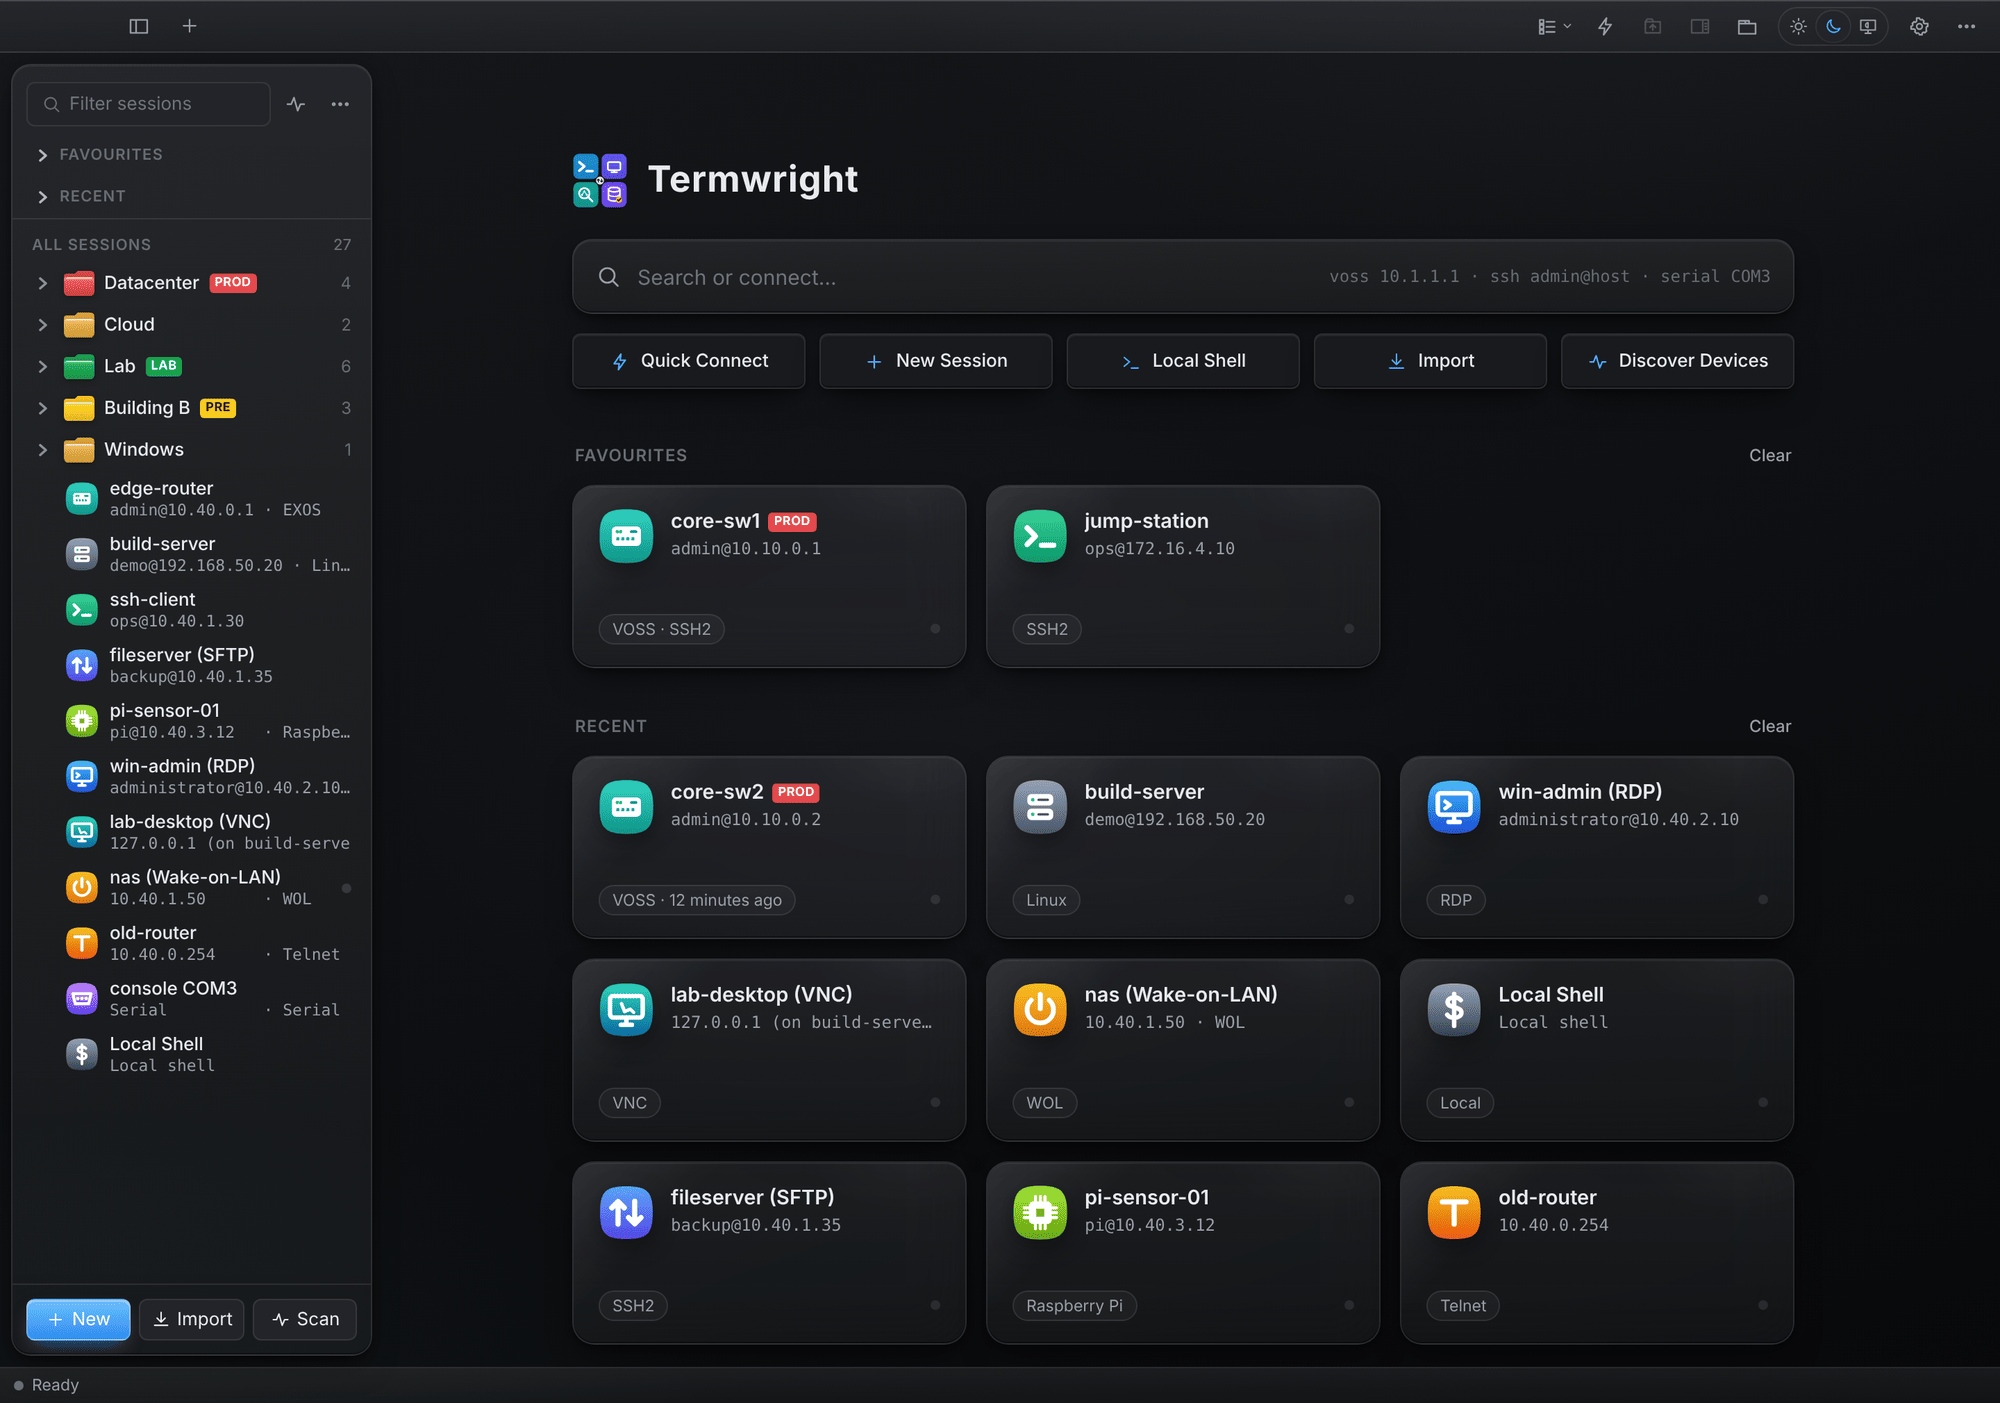
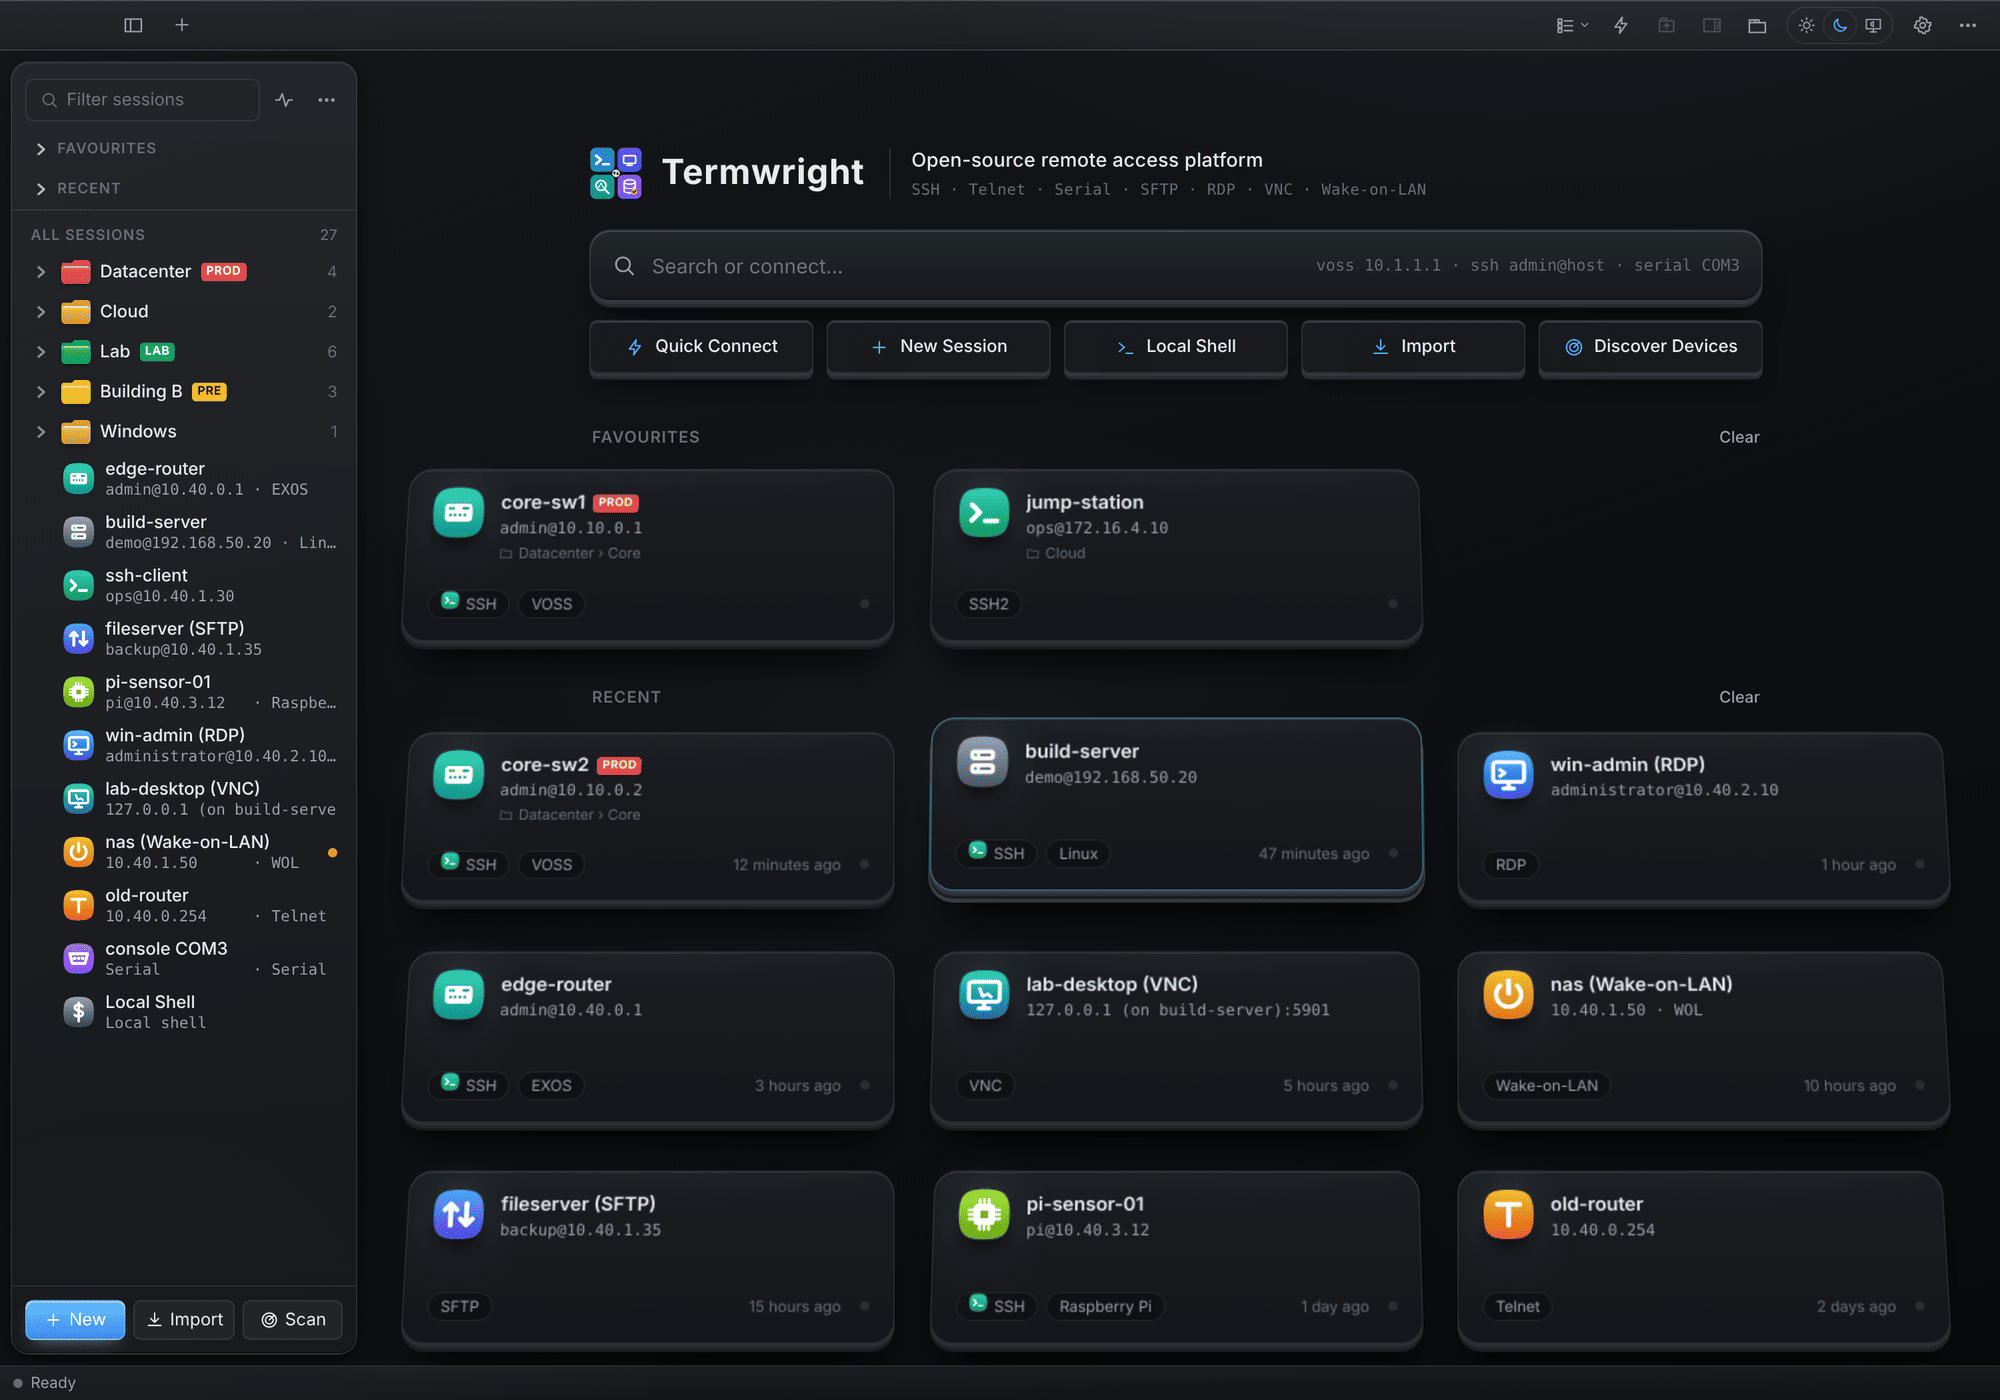
README: new start page screenshots (3D cards, dark and light), What's new in 0.28; changelog for 0.28.2

diff --git a/README.md b/README.md
@@ -23,7 +23,7 @@
   <a href="docs/ROADMAP.md">Roadmap</a>
 </p>
 
-![Termwright - start page and Session Manager in the Glacier style](docs/screenshots/glacier-start-dark.png)
+![Termwright - start page with 3D cards and the Session Manager in the Glacier style](docs/screenshots/glacier-start-dark.png)
 
 <p align="center"><i>The start page and Session Manager (Glacier, dark): folders with their environments, and every kind of session - SSH, SFTP, Linux, EXOS, IoT, RDP, VNC, Wake-on-LAN, Telnet, serial, local shell.</i></p>
 
@@ -52,7 +52,7 @@
 - Compare two tabs, a tab and a file, or two SFTP files
 - Wake-on-LAN
 - Import from SecureCRT, PuTTY, MobaXterm, mRemoteNG and more
-- Windows, macOS and Linux, and an Android companion app for Wake-on-LAN ([preview](mobile/README.md))
+- Windows, macOS and Linux, and an Android companion app with an SSH and Telnet terminal, a device widget and Wake-on-LAN ([preview](mobile/README.md))
 - Glacier and Standard styles, dark and light themes
 
 And much more - see the [feature list](docs/FEATURES.md).
@@ -83,12 +83,13 @@ Existing sessions can be imported from SecureCRT, PuTTY, KiTTY, SuperPuTTY, Moba
   - configuration backups with change detection, change checklists, and Run and Collect.
 - **Networks in between**: jump hosts (chainable), SOCKS5 and HTTP proxies, port forwarding, and SFTP to a host behind a bastion through the bastion's own key. Web interfaces of devices behind a jump host open in a browser window whose traffic goes through the SSH connection.
 
-## What's new in 0.28.0
+## What's new in 0.28
 
 - **Termwright for Android: a terminal.** SSH and Telnet sessions open on the phone with the desktop's terminal and a key bar for Esc, Tab, Ctrl, Alt and the arrows. Logins are kept encrypted, host keys are checked, sessions with a jump host go through it when you are away, and open sessions stay connected in the background.
 - **Android: widget and wakes on a schedule.** A home screen widget shows whether your devices are up with a *Wake* button, and the phone can wake a device every day or on weekdays, with a notification afterwards.
 - **3D start page.** On the Glacier style the recent and favourite cards, the search bar and the quick buttons are 3D; the cards reach past the search bar into free space and show the model with the login, the folder and the time. Recent keeps 12 sessions.
 - **A neutral light theme.** Glacier light is white and grey instead of bluish.
+- **Discover Devices, calmer.** It opens narrow: pick a network of this computer or type addresses, with the SNMP options folded away; the window widens for the results.
 
 ## What's new in 0.27.0
 
@@ -170,7 +171,7 @@ The complete list is in [docs/FEATURES.md](docs/FEATURES.md).
 | ![Discover Devices](docs/screenshots/discover.png) <br/>*Network discovery with evidence per device* | ![Configuration backups](docs/screenshots/backups.png) <br/>*Configuration backups* |
 | ![Change checklist](docs/screenshots/checklist.png) <br/>*Change checklist: same or changed per device* | ![Run and Collect](docs/screenshots/collect.png) <br/>*Run and Collect into one table* |
 | ![Open Web Interface](docs/screenshots/web-open.png) <br/>*A device's web interface through its jump station* | ![Command History](docs/screenshots/history.png) <br/>*Command History* |
-| ![Light theme](docs/screenshots/light.png) <br/>*Light theme* | ![Files panel on the left](docs/screenshots/files-panel-right.png) <br/>*Files panel on the left when the Session Manager is on the right* |
+| ![Light theme](docs/screenshots/light.png) <br/>*Glacier, light: white and grey with 3D cards* | ![Files panel on the left](docs/screenshots/files-panel-right.png) <br/>*Files panel on the left when the Session Manager is on the right* |
 
 <details>
 <summary>More screenshots</summary>

diff --git a/CHANGELOG.md b/CHANGELOG.md
@@ -4,14 +4,13 @@ All notable changes to Termwright. Each release on GitHub shows its section of t
 
 ## Unreleased
 
-* **Discover Devices: calmer before a scan.** The window opens narrow, with the networks of this computer as a list to pick from (one line per network - wired and Wi-Fi on the same network share it), the addresses to type below, and the SNMP options folded away. It widens for the results.
-* **Android terminal: letters no longer cut off at the bottom or squeezed together.** xterm measured its letters on a hidden canvas but showed them as page text, which the phone draws bigger (its font size setting) or in another font; the terminal now measures with page text, the way it draws, and ignores the phone's text zoom (the terminal has its own size: menu → Text size).
-* **Android terminal: whole letters, readable title.** The letters were taller than the rows (the phone's own monospace font), so their lower half was cut off; the terminal now has its own font (DejaVu Sans Mono), waits for it before measuring, and fits rows exactly. The session name in the terminal's title bar was black on dark grey.
-
 ## 0.28.2 (2026-11-01)
 
-The Android terminal shows what the device prints, and calmer dark cards on the start page.
+The Android terminal works on real phones - whole letters, the prompt above the keyboard - with calmer dark cards on the start page and a tidier Discover Devices.
 
+* **Discover Devices: calmer before a scan.** The window opens narrow, with the networks of this computer as a list to pick from (one line per network - wired and Wi-Fi on the same network share it), the addresses to type below, and the SNMP options folded away. It widens for the results.
+* **Android terminal: letters no longer cut off at the bottom or squeezed together.** xterm measured its letters on a hidden canvas but showed them as page text, which the phone draws bigger (its font size setting) or in another font; the terminal now measures with page text, the way it draws, and ignores the phone's text zoom (the terminal has its own size: menu → Text size).
+* **Android terminal: its own font and a readable title.** The terminal brings DejaVu Sans Mono, so it looks the same on every phone, and the session name in its title bar is light (it was black on dark grey).
 * **Glacier dark: deep slate cards.** The start page cards are darker with a soft light from the top and grey sides; the light shine across them is gone.
 * **Android: the terminal shows what the device prints.** The terminal was sized for the whole screen and did not shrink when the keyboard opened, so the prompt, what you typed and the device's answers were hidden under the keyboard. It now fits the visible part above the keyboard and the key bar, keeps the cursor line in view, and never cuts the last row; the text is a little smaller (11), so a switch's output fits on a phone.
 
